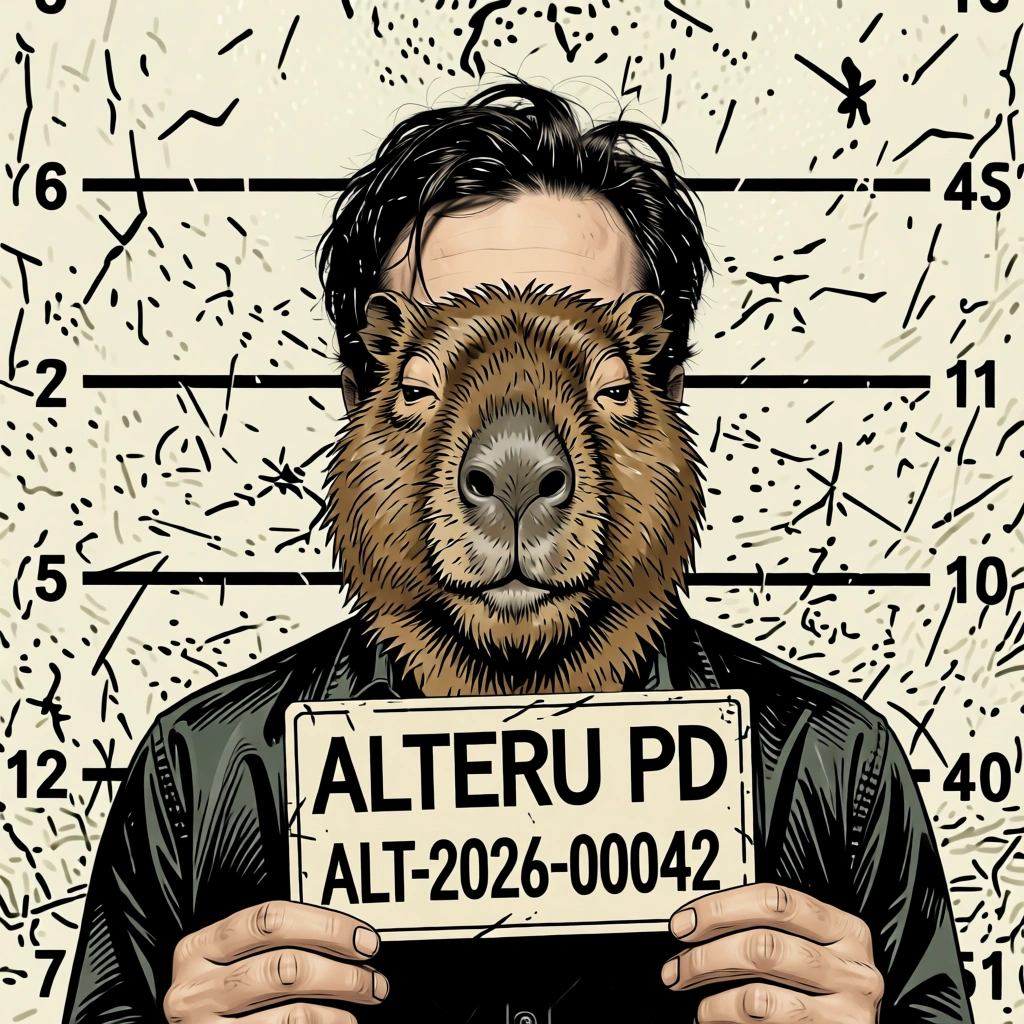
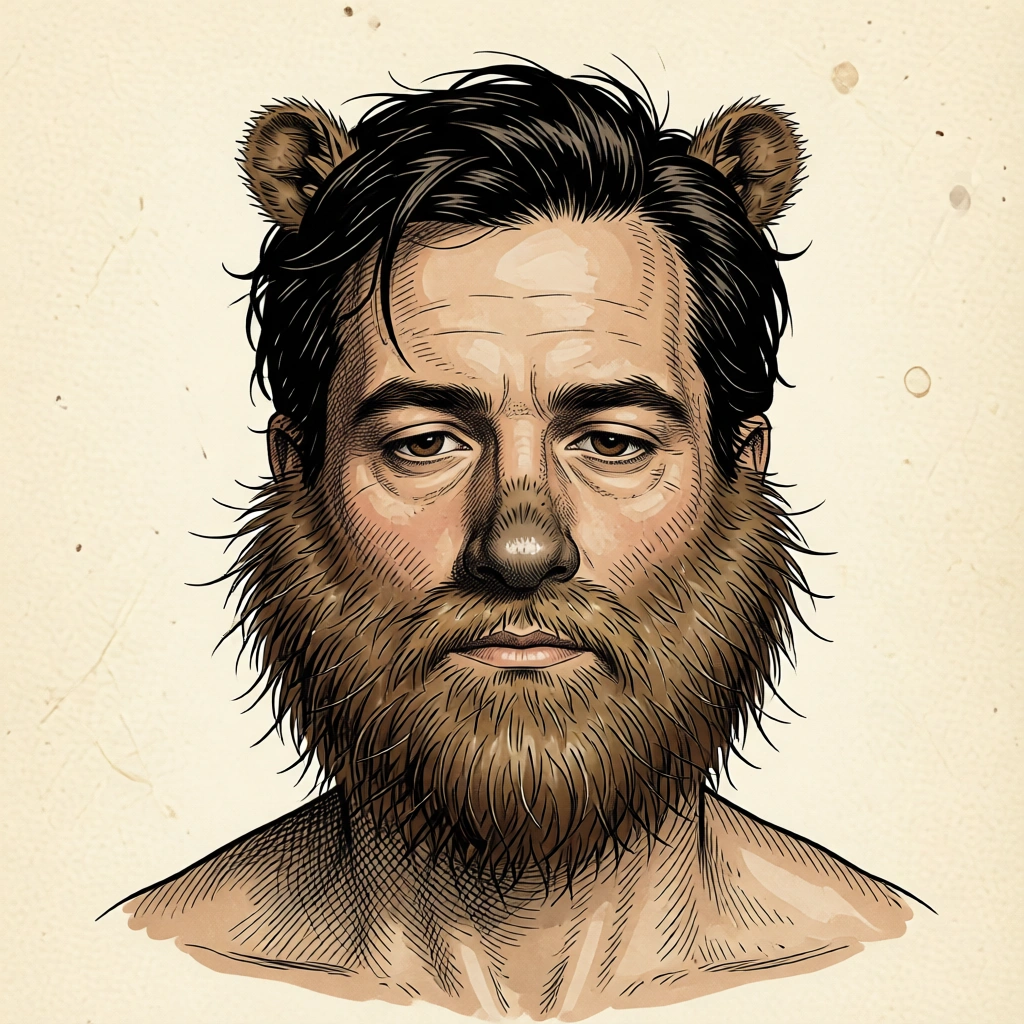
fix(pet-filter): hybrid demos finally hybrid
Re-spun the 3 frontispiece demos with two prompt+ref changes:
  1. Cleaner face crop (top 5%-55% of mugshot, drops the ALTERU PD
     sign so the model doesn't copy it through the ref)
  2. Hardened prompt language:
     - "KEEP face structure, skin tone, eyebrows, hairline, jawline,
       eye placement, and human shoulders fully visible"
     - "Add to their head ONLY: <species features>"
     - "~70% human and ~30% creature"
     - "DO NOT include any plaque, ID number, or written text"

Result: all 3 demos now read as clearly THE SAME MAN with species
features grafted on. Cat has triangular ears + tabby sideburns +
whiskers + feline eyes but the face is unmistakably his. Capybara
has soft brown fur cheeks/beard + droopy snout. Octopus has a small
purple cephalopod perched on his head with suckered tentacles
hanging down. No mugshot sign leakage in any of them.

pets.ts updated with the same HYBRID_PREFIX + HYBRID_SUFFIX_GUARD
so real user-uploaded photos get the same treatment in-game.

diff --git a/src/PetFilter/utils/pets.ts b/src/PetFilter/utils/pets.ts
@@ -50,12 +50,24 @@ const STYLE_SUFFIX = (
 // Each prompt leads with the HYBRID framing. The reference image is
 // the user's photo; the model must keep their face recognizable while
 // overlaying the species-specific features below.
+// Hardened HYBRID prompt. Critical learnings from the first demo run:
+//   - The model OVERSHOOTS toward pure animal when species anatomy is
+//     "complete" (cat/dog have full head). Need to explicitly demand
+//     the face stays ~70% human.
+//   - The model COPIES extraneous elements from the ref (mugshot
+//     plaque, room signage). Need to explicitly forbid plaques + text.
 const HYBRID_PREFIX = (
-  'A 19th-century zoological plate of an anthropomorphic HYBRID. ' +
-  'The subject in the reference image is a real person — KEEP their ' +
-  'facial structure, eye placement, expression, hairline, and ' +
-  'personal identity CLEARLY recognizable. Blend onto the SAME face ' +
-  'the features of: '
+  'A 19th-century zoological plate of an anthropomorphic HYBRID human. ' +
+  'The subject is the person in the reference photo — KEEP their face ' +
+  'structure, skin tone, eyebrows, hairline, jawline, eye placement, ' +
+  'and human shoulders fully visible and RECOGNIZABLE. They are NOT a ' +
+  'pure animal; they are a human with hybrid features grafted onto ' +
+  'their existing face. Add to their head ONLY: '
+);
+const HYBRID_SUFFIX_GUARD = (
+  ' Their face must remain ~70% human and ~30% creature. The viewer ' +
+  'must instantly recognize the same person, transformed. ' +
+  'DO NOT include any plaque, ID number, or written text in the image.'
 );
 
 export const PETS: Pet[] = [
@@ -67,7 +79,7 @@ export const PETS: Pet[] = [
     plate: 'I',
     category: 'everyday',
     tint: '#8B4B3A',
-    prompt: HYBRID_PREFIX + 'soft tabby fur creeping across the cheeks and brow, feline almond pupils retaining the subject\'s eye color, small triangular cat ears emerging from where the human ears were, delicate whiskers.' + STYLE_SUFFIX,
+    prompt: HYBRID_PREFIX + 'soft tabby fur creeping across the cheeks and brow, feline almond pupils retaining the subject\'s eye color, small triangular cat ears emerging from where the human ears were, delicate whiskers.' + HYBRID_SUFFIX_GUARD + STYLE_SUFFIX,
   },
   {
     id: 'dog',
@@ -76,7 +88,7 @@ export const PETS: Pet[] = [
     plate: 'II',
     category: 'everyday',
     tint: '#8B4B3A',
-    prompt: HYBRID_PREFIX + 'soft canine fur on the cheeks, big honest eyes that still hold the subject\'s expression, lop ears emerging from the hairline, a gentle dog snout barely forward of the human nose.' + STYLE_SUFFIX,
+    prompt: HYBRID_PREFIX + 'soft canine fur on the cheeks, big honest eyes that still hold the subject\'s expression, lop ears emerging from the hairline, a gentle dog snout barely forward of the human nose.' + HYBRID_SUFFIX_GUARD + STYLE_SUFFIX,
   },
   {
     id: 'hamster',
@@ -85,7 +97,7 @@ export const PETS: Pet[] = [
     plate: 'III',
     category: 'everyday',
     tint: '#A67C3F',
-    prompt: HYBRID_PREFIX + 'puffy caramel cheeks emerging from the human face, small round hamster ears, a tiny twitching pink nose, the subject\'s eyes now bead-bright but still expressive.' + STYLE_SUFFIX,
+    prompt: HYBRID_PREFIX + 'puffy caramel cheeks emerging from the human face, small round hamster ears, a tiny twitching pink nose, the subject\'s eyes now bead-bright but still expressive.' + HYBRID_SUFFIX_GUARD + STYLE_SUFFIX,
   },
   {
     id: 'duck',
@@ -94,7 +106,7 @@ export const PETS: Pet[] = [
     plate: 'IV',
     category: 'everyday',
     tint: '#B08C2E',
-    prompt: HYBRID_PREFIX + 'soft duckling down on the cheeks and neck, a wide flat orange bill emerging from where the human mouth was, calm dark eyes that retain the subject\'s expression.' + STYLE_SUFFIX,
+    prompt: HYBRID_PREFIX + 'soft duckling down on the cheeks and neck, a wide flat orange bill emerging from where the human mouth was, calm dark eyes that retain the subject\'s expression.' + HYBRID_SUFFIX_GUARD + STYLE_SUFFIX,
   },
 
   // ─── Wholesome quirky ───
@@ -105,7 +117,7 @@ export const PETS: Pet[] = [
     plate: 'V',
     category: 'wholesome',
     tint: '#7A5B2F',
-    prompt: HYBRID_PREFIX + 'soft coarse brown capybara fur on the cheeks, sleepy half-closed eyes (still the subject\'s), a blunt friendly snout barely emerging from the human face, hot-spring serenity.' + STYLE_SUFFIX,
+    prompt: HYBRID_PREFIX + 'soft coarse brown capybara fur on the cheeks, sleepy half-closed eyes (still the subject\'s), a blunt friendly snout barely emerging from the human face, hot-spring serenity.' + HYBRID_SUFFIX_GUARD + STYLE_SUFFIX,
   },
   {
     id: 'sloth',
@@ -114,7 +126,7 @@ export const PETS: Pet[] = [
     plate: 'VI',
     category: 'wholesome',
     tint: '#6E5F38',
-    prompt: HYBRID_PREFIX + 'shaggy moss-tinged fur on the cheeks and neck, dark patches around the human eyes, dreamy half-lidded expression, a slow benevolent smile.' + STYLE_SUFFIX,
+    prompt: HYBRID_PREFIX + 'shaggy moss-tinged fur on the cheeks and neck, dark patches around the human eyes, dreamy half-lidded expression, a slow benevolent smile.' + HYBRID_SUFFIX_GUARD + STYLE_SUFFIX,
   },
   {
     id: 'parrot',
@@ -123,7 +135,7 @@ export const PETS: Pet[] = [
     plate: 'VII',
     category: 'wholesome',
     tint: '#A33C2A',
-    prompt: HYBRID_PREFIX + 'brilliant red and green feather plumage around the face, a curved black beak softly emerging where the human nose and mouth were, a sharp curious eye with white feathered ring.' + STYLE_SUFFIX,
+    prompt: HYBRID_PREFIX + 'brilliant red and green feather plumage around the face, a curved black beak softly emerging where the human nose and mouth were, a sharp curious eye with white feathered ring.' + HYBRID_SUFFIX_GUARD + STYLE_SUFFIX,
   },
   {
     id: 'axolotl',
@@ -132,7 +144,7 @@ export const PETS: Pet[] = [
     plate: 'VIII',
     category: 'wholesome',
     tint: '#B66D6F',
-    prompt: HYBRID_PREFIX + 'translucent pale pink skin tone, feathery axolotl gill fronds fanning out from where the human ears were, a perpetual gentle smile, tiny dark dot eyes that retain expression.' + STYLE_SUFFIX,
+    prompt: HYBRID_PREFIX + 'translucent pale pink skin tone, feathery axolotl gill fronds fanning out from where the human ears were, a perpetual gentle smile, tiny dark dot eyes that retain expression.' + HYBRID_SUFFIX_GUARD + STYLE_SUFFIX,
   },
   {
     id: 'hedgehog',
@@ -141,7 +153,7 @@ export const PETS: Pet[] = [
     plate: 'IX',
     category: 'wholesome',
     tint: '#8C6A3D',
-    prompt: HYBRID_PREFIX + 'a ring of cream-and-brown quills crowning the head and running along the cheeks, a small round face that\'s still the subject\'s, shiny dark eyes, a tiny pink nose.' + STYLE_SUFFIX,
+    prompt: HYBRID_PREFIX + 'a ring of cream-and-brown quills crowning the head and running along the cheeks, a small round face that\'s still the subject\'s, shiny dark eyes, a tiny pink nose.' + HYBRID_SUFFIX_GUARD + STYLE_SUFFIX,
   },
 
   // ─── Uncanny ───
@@ -152,7 +164,7 @@ export const PETS: Pet[] = [
     plate: 'X',
     category: 'uncanny',
     tint: '#3F6E78',
-    prompt: HYBRID_PREFIX + 'ruffled iridescent blue-and-purple mantle framing the subject\'s face like a collar, faint eye-spots along the rim, the human face peering out from inside the calcified ridged shell halves.' + STYLE_SUFFIX,
+    prompt: HYBRID_PREFIX + 'ruffled iridescent blue-and-purple mantle framing the subject\'s face like a collar, faint eye-spots along the rim, the human face peering out from inside the calcified ridged shell halves.' + HYBRID_SUFFIX_GUARD + STYLE_SUFFIX,
   },
   {
     id: 'octopus',
@@ -161,7 +173,7 @@ export const PETS: Pet[] = [
     plate: 'XI',
     category: 'uncanny',
     tint: '#5B3A6E',
-    prompt: HYBRID_PREFIX + 'a bulbous violet octopus mantle behind and around the human head, intelligent horizontal slit-pupil eyes where the human eyes were, suckered tentacles curling near the face, mottled chromatophore skin.' + STYLE_SUFFIX,
+    prompt: HYBRID_PREFIX + 'a bulbous violet octopus mantle behind and around the human head, intelligent horizontal slit-pupil eyes where the human eyes were, suckered tentacles curling near the face, mottled chromatophore skin.' + HYBRID_SUFFIX_GUARD + STYLE_SUFFIX,
   },
   {
     id: 'snail',
@@ -170,7 +182,7 @@ export const PETS: Pet[] = [
     plate: 'XII',
     category: 'uncanny',
     tint: '#4F5E2A',
-    prompt: HYBRID_PREFIX + 'a glossy spiral brown shell rising from the back of the human head, long sensitive eye-stalks lifting up from the temples, the human face glistening moist and calm.' + STYLE_SUFFIX,
+    prompt: HYBRID_PREFIX + 'a glossy spiral brown shell rising from the back of the human head, long sensitive eye-stalks lifting up from the temples, the human face glistening moist and calm.' + HYBRID_SUFFIX_GUARD + STYLE_SUFFIX,
   },
 ];
 

diff --git a/gen_hybrid_only.py b/gen_hybrid_only.py
@@ -1,0 +1,187 @@
+#!/usr/bin/env python3
+"""
+Re-generate ONLY the 3 hybrid demos using:
+  1. A cleaner face crop (tighter — head + shoulders only, drops the
+     ALTERU PD signage)
+  2. A harder hybrid prompt that resists the model's tendency to
+     "just replace the head" for complete-anatomy pets like cats/dogs.
+
+Usage:  /Users/yin/miniconda3/bin/python3 gen_hybrid_only.py
+"""
+import datetime, hashlib, hmac, json, os, ssl, sys, time, urllib.parse, urllib.request
+from PIL import Image
+
+HERE = os.path.dirname(os.path.abspath(__file__))
+
+R2_ACCOUNT_ID = "[removed-r2-account-id]"
+R2_ACCESS_KEY = "[removed-r2-access-key]"
+R2_SECRET_KEY = "[removed-r2-secret-key]"
+R2_BUCKET = "aigram"
+R2_ENDPOINT = f"https://{R2_ACCOUNT_ID}.r2.cloudflarestorage.com"
+R2_PUBLIC = "https://images.aiwaves.tech"
+API_URL = "http://aiservice.wdabuliu.com:8019/genl_image"
+API_TIMEOUT = 120
+RATE_LIMIT_S = 80
+_SSL_CTX = ssl.create_default_context()
+_SSL_CTX.check_hostname = False
+_SSL_CTX.verify_mode = ssl.CERT_NONE
+
+
+def _sign(k, m): return hmac.new(k, m.encode(), hashlib.sha256).digest()
+
+
+def upload_ref(path):
+    with open(path, "rb") as f: data = f.read()
+    obj = f"refs/pf-{int(time.time())}-{os.path.basename(path)}"
+    host = f"{R2_ACCOUNT_ID}.r2.cloudflarestorage.com"
+    now = datetime.datetime.utcnow()
+    amz = now.strftime("%Y%m%dT%H%M%SZ"); date = now.strftime("%Y%m%d")
+    ct = "image/jpeg"
+    h = hashlib.sha256(data).hexdigest()
+    canon_uri = "/" + R2_BUCKET + "/" + urllib.parse.quote(obj, safe="/")
+    hdrs = f"content-type:{ct}\nhost:{host}\nx-amz-content-sha256:{h}\nx-amz-date:{amz}\n"
+    signed = "content-type;host;x-amz-content-sha256;x-amz-date"
+    canon = "\n".join(["PUT", canon_uri, "", hdrs, signed, h])
+    scope = f"{date}/auto/s3/aws4_request"
+    sts = "\n".join(["AWS4-HMAC-SHA256", amz, scope, hashlib.sha256(canon.encode()).hexdigest()])
+    kd = _sign(("AWS4" + R2_SECRET_KEY).encode(), date)
+    kr = _sign(kd, "auto"); ks = _sign(kr, "s3"); ksg = _sign(ks, "aws4_request")
+    sig = hmac.new(ksg, sts.encode(), hashlib.sha256).hexdigest()
+    auth = f"AWS4-HMAC-SHA256 Credential={R2_ACCESS_KEY}/{scope}, SignedHeaders={signed}, Signature={sig}"
+    url = f"{R2_ENDPOINT}/{R2_BUCKET}/{urllib.parse.quote(obj, safe='/')}"
+    req = urllib.request.Request(url, data=data, method="PUT", headers={
+        "Content-Type": ct, "x-amz-content-sha256": h, "x-amz-date": amz,
+        "Authorization": auth, "Content-Length": str(len(data)),
+    })
+    with urllib.request.urlopen(req, timeout=60) as r: r.read()
+    return f"{R2_PUBLIC}/{obj}"
+
+
+def call_api(ref_url, prompt):
+    payload = json.dumps({"query": "", "params": {"url": ref_url, "prompt": prompt}}).encode()
+    req = urllib.request.Request(API_URL, data=payload,
+        headers={"Content-Type": "application/json"}, method="POST")
+    try:
+        with urllib.request.urlopen(req, timeout=API_TIMEOUT) as r:
+            res = json.loads(r.read())
+    except urllib.error.HTTPError as e:
+        sys.exit(f"HTTP {e.code}: {e.read().decode()[:200]}")
+    code = res.get("code")
+    if code == 200: return res["url"]
+    if code == 429: raise RuntimeError("rate_limit")
+    print(f"  ✗ code={code}"); return None
+
+
+def download(url, out):
+    os.makedirs(os.path.dirname(os.path.abspath(out)), exist_ok=True)
+    req = urllib.request.Request(url, headers={"User-Agent": "Mozilla/5.0"})
+    with urllib.request.urlopen(req, timeout=60, context=_SSL_CTX) as r:
+        data = r.read()
+    with open(out, "wb") as f: f.write(data)
+    print(f"  ✓ {out}  ({os.path.getsize(out) // 1024} KB)")
+
+
+# Crop a tight face-only ref from the mugshot — drop the sign region.
+def make_face_ref():
+    src = "/Users/yin/code/games/mugshot-booth/public/demo_mugshot2.jpg"
+    out = os.path.join(HERE, "_hybrid_ref_v2.jpg")
+    img = Image.open(src).convert("RGB")
+    w, h = img.size
+    # Mugshot is 768x1024 ish. Head occupies roughly upper-third center.
+    # Crop a tight 1:1 around the face: top ~50px to roughly 600px down,
+    # center-cropped horizontally to square.
+    # We'll heuristic: take the centered top-half-ish square.
+    top = int(h * 0.05)
+    bottom = int(h * 0.55)
+    side = bottom - top
+    left = (w - side) // 2
+    img = img.crop((left, top, left + side, top + side))
+    img = img.resize((1024, 1024), Image.LANCZOS)
+    img.save(out, quality=92)
+    return out
+
+
+# Hardened hybrid prompt — pushes much harder on subject preservation,
+# explicitly tells the model NOT to redraw the head.
+PLATE_STYLE = (
+    " Rendered as a 19th-century zoological plate — hand-colored "
+    "lithograph or engraving, fine pen-and-ink linework with soft "
+    "watercolor wash, in the painterly tradition of John James "
+    "Audubon and Ernst Haeckel. Aged cream paper background with "
+    "faint foxing. Painterly, traditional — no photography, no 3D, "
+    "no neon. 1:1 aspect, no text, no labels, no sign, no border. "
+    "DO NOT include any plaque, ID number, or written text in the image."
+)
+
+
+def hybrid(features):
+    return (
+        "A 19th-century zoological plate of an anthropomorphic HYBRID human. "
+        "The subject is the man in the reference photo — KEEP HIS face "
+        "structure, skin tone, eyebrows, hairline, jawline, eye placement, "
+        "and human shoulders fully visible and RECOGNIZABLE. He is NOT a "
+        "pure animal; he is a man with hybrid features grafted onto his "
+        "existing human face. "
+        f"Add to his head ONLY: {features} "
+        "His face must remain ~70% human and ~30% creature. The viewer "
+        "must instantly recognize the same man, transformed."
+        + PLATE_STYLE
+    )
+
+
+JOBS = [
+    {
+        "out": "public/demo_pet_cat.jpg",
+        "feats": "small triangular tabby cat ears emerging from his hair, "
+                 "soft tabby-fur sideburns blending into his cheek stubble, "
+                 "delicate whiskers near the corners of his human mouth, "
+                 "his eyes now feline-almond yellow-green but still HIS eyes.",
+    },
+    {
+        "out": "public/demo_pet_capybara.jpg",
+        "feats": "soft coarse brown capybara fur growing on his cheeks and "
+                 "jawline like a beard, small rounded capybara ears in his "
+                 "hair, a slightly blunted nose, sleepy half-closed but "
+                 "still HUMAN eyes.",
+    },
+    {
+        "out": "public/demo_pet_octopus.jpg",
+        "feats": "a bulbous violet octopus mantle rising from the top of his "
+                 "head like a hat, small suckered tentacles curling down "
+                 "from where his hair was, a few faint chromatophore spots "
+                 "on his cheeks, but his face stays human and recognizable.",
+    },
+]
+
+
+def main():
+    ref_path = make_face_ref()
+    print(f"face ref: {ref_path}")
+    print("uploading…")
+    ref_url = upload_ref(ref_path)
+    print(f"  ✓ {ref_url}")
+
+    last = 0
+    for i, j in enumerate(JOBS):
+        out_path = os.path.join(HERE, j["out"])
+        print(f"\n[{i+1}/{len(JOBS)}] {j['out']}")
+        wait = RATE_LIMIT_S - (time.time() - last)
+        if wait > 0:
+            print(f"  ⏳ rate-limit {wait:.0f}s")
+            time.sleep(wait)
+        retries = 3
+        while retries > 0:
+            try:
+                last = time.time()
+                gen_url = call_api(ref_url, hybrid(j["feats"]))
+                if gen_url is None: break
+                download(gen_url, out_path)
+                break
+            except RuntimeError:
+                print("  ⏳ 30s back-off"); time.sleep(30); retries -= 1
+            except Exception as e:
+                print(f"  ✗ {e}"); break
+
+
+if __name__ == "__main__":
+    main()
